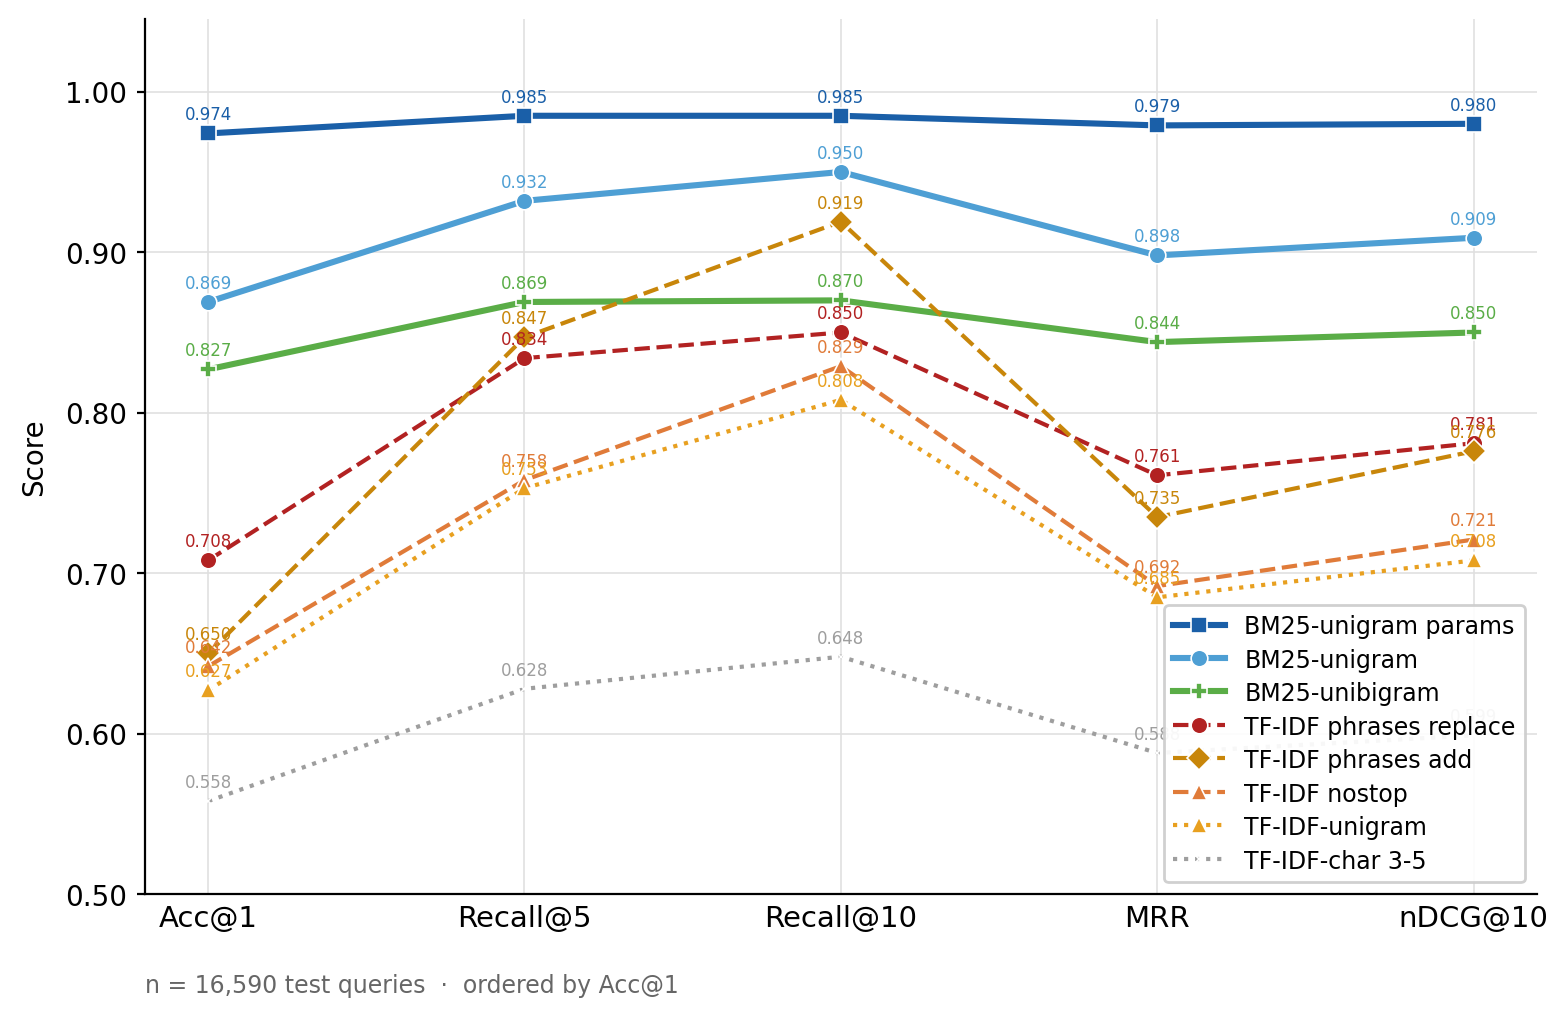
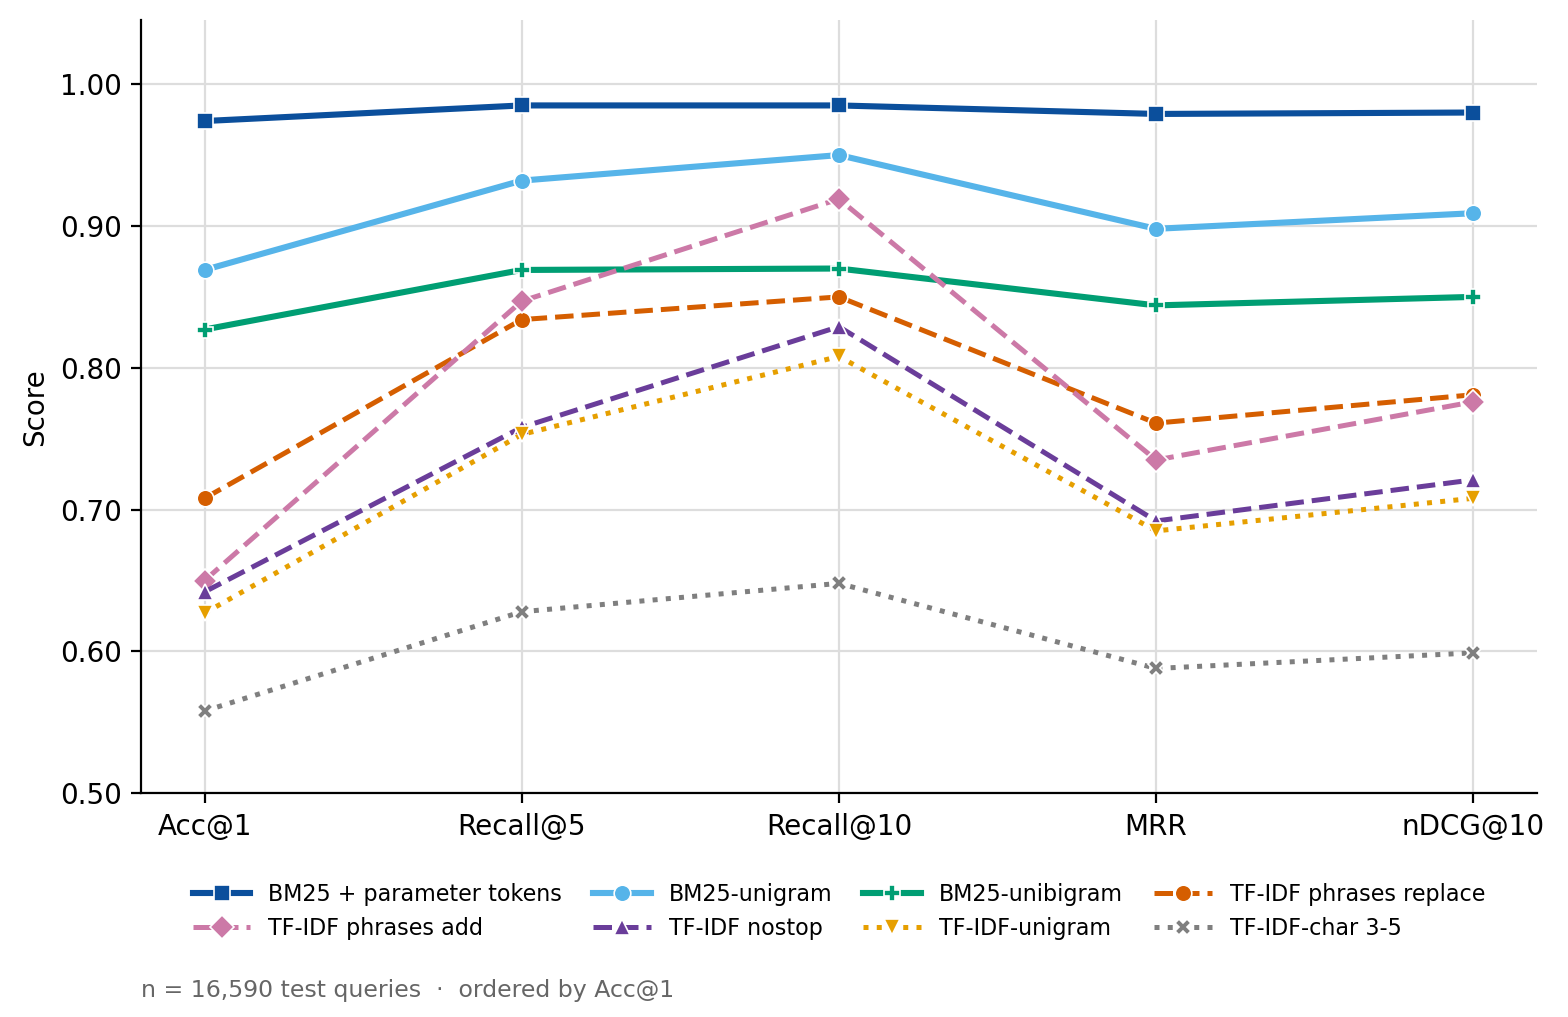
Figures: legends outside data area, readable labels, distinct colours
lexical_performance_parent.png and lexical_performance_item.png came from
Overleaf with no generator in any branch. They are now drawn by the new
scripts/plot_lexical_performance.py from eval/lexical/lb_{parent,item}.tex,
the only surviving source of their data (runs/ is gone, D-019). The values
plotted are the ones the old figures labelled; same series, same order by
Acc@1, same axes and limits, same 1568x1017 px at 200 dpi.

- Legend below the axes, out of the data area, read row by row in Acc@1 order.
- Per-point value labels removed; the values are in the tables.
- Okabe-Ito palette and a distinct marker per series (TF-IDF phrases replace
  and TF-IDF nostop are now vermillion and purple).
- Series renamed "BM25-unigram params" -> "BM25 + parameter tokens".

acc1_by_family.pdf is not touched: scripts/plot_acc1_by_family.py reads
runs/ only and its inputs no longer exist.

Rendered in a throwaway container of the pytorch-notebook image (no
matplotlib on the host), repo mounted read-only.

diff --git a/scripts/plot_lexical_performance.py b/scripts/plot_lexical_performance.py
@@ -1,0 +1,109 @@
+#!/usr/bin/env python3
+"""Dibuja las dos figuras de rendimiento léxico (padre e ítem) desde eval/lexical/.
+
+Las figuras del manuscrito llegaron de Overleaf sin script que las generase. Sus
+datos son los de `eval/lexical/lb_{parent,item}.tex`, los leaderboards que
+escribió `notebooks/eval_all_runs.ipynb`, y como `runs/` ya no existe (D-019) son
+la única fuente que queda. Se dibujan las ocho configuraciones léxicas de la
+tabla, sin la fusión RRF, ordenadas por Acc@1 en cada nivel.
+
+Uso:  python scripts/plot_lexical_performance.py
+"""
+from __future__ import annotations
+
+import argparse
+import re
+from pathlib import Path
+
+import matplotlib
+
+matplotlib.use("Agg")
+import matplotlib.pyplot as plt  # noqa: E402
+import matplotlib.ticker  # noqa: E402
+
+EVAL = Path("eval/lexical")
+FIGURES = Path("paper/figures")
+METRICS = ["Acc@1", "Recall@5", "Recall@10", "MRR", "nDCG@10"]
+
+# Nombre en la leyenda, color, estilo de línea y marcador. Colores de la paleta de
+# Okabe e Ito, que se distinguen también con daltonismo; cada serie lleva además
+# su propio marcador, así que no dependen sólo del color.
+SERIES = {
+    "bm25_unigram_params__k1-0.60__b-0.35": ("BM25 + parameter tokens", "#0b4f9c", "-", "s"),
+    "bm25_unigram__k1-0.80__b-0.35": ("BM25-unigram", "#56b4e9", "-", "o"),
+    "bm25_unibigram__k1-0.80__b-0.35": ("BM25-unibigram", "#009e73", "-", "P"),
+    "tfidf_unigram_phrases_replace": ("TF-IDF phrases replace", "#d55e00", "--", "o"),
+    "tfidf_unigram_phrases_add": ("TF-IDF phrases add", "#cc79a7", "--", "D"),
+    "tfidf_unigram_nostop": ("TF-IDF nostop", "#6a3d9a", "--", "^"),
+    "tfidf_unigram": ("TF-IDF-unigram", "#e69f00", ":", "v"),
+    "tfidf_char_3_5": ("TF-IDF-char 3-5", "#7f7f7f", ":", "X"),
+}
+
+# Los mismos límites del eje Y que las figuras publicadas.
+YLIM = {"item": (0.50, 1.045), "parent": (0.72, 1.045)}
+
+
+def read_leaderboard(path: Path) -> list[tuple[str, dict[str, float]]]:
+    """Filas de un leaderboard de eval_all_runs, en el orden de la tabla."""
+    header, rows = None, []
+    for line in path.read_text(encoding="utf-8").splitlines():
+        if "&" not in line:
+            continue
+        cells = [c.strip() for c in re.sub(r"\\\\\s*$", "", line).split("&")]
+        if cells[0] == "method":
+            header = cells
+            continue
+        rows.append((cells[0], {h: float(v) for h, v in zip(header[1:], cells[1:])}))
+    return rows
+
+
+def plot(level: str, out: Path) -> None:
+    rows = [(run, m) for run, m in read_leaderboard(EVAL / f"lb_{level}.tex") if run in SERIES]
+    rows.sort(key=lambda r: -r[1]["Acc@1"])
+
+    # 1568 x 1017 px a 200 ppp, como las figuras publicadas.
+    fig, ax = plt.subplots(figsize=(7.84, 5.085), dpi=200)
+    x = range(len(METRICS))
+    for run, m in rows:
+        label, color, style, marker = SERIES[run]
+        ax.plot(x, [m[k] for k in METRICS], linestyle=style, marker=marker, color=color,
+                linewidth=2.2 if style == "-" else 1.8, markersize=6,
+                markeredgecolor="white", markeredgewidth=0.6, label=label)
+
+    ax.set_xticks(list(x), METRICS)
+    ax.set_ylim(*YLIM[level])
+    ax.yaxis.set_major_formatter(matplotlib.ticker.FormatStrFormatter("%.2f"))
+    ax.set_ylabel("Score")
+    ax.grid(True, color="#dddddd", linewidth=0.8)
+    ax.set_axisbelow(True)
+    for side in ("top", "right"):
+        ax.spines[side].set_visible(False)
+
+    # Leyenda debajo del eje, fuera del área de datos. matplotlib la rellena por
+    # columnas; se reordena para que se lea por filas en el orden de Acc@1.
+    ncol = 4
+    handles, labels = ax.get_legend_handles_labels()
+    nrow = -(-len(handles) // ncol)
+    order = [r * ncol + c for c in range(ncol) for r in range(nrow) if r * ncol + c < len(handles)]
+    ax.legend([handles[i] for i in order], [labels[i] for i in order],
+              loc="upper center", bbox_to_anchor=(0.5, -0.09), ncol=ncol, frameon=False,
+              fontsize=8, handlelength=2.6, columnspacing=1.4)
+    fig.text(0.09, 0.02, "n = 16,590 test queries  ·  ordered by Acc@1",
+             fontsize=8.5, color="#666666")
+    fig.subplots_adjust(left=0.09, right=0.98, top=0.98, bottom=0.22)
+    fig.savefig(out, dpi=200)
+    plt.close(fig)
+    print(f"-> {out}")
+
+
+def main() -> int:
+    parser = argparse.ArgumentParser(description=__doc__)
+    parser.add_argument("--outdir", type=Path, default=FIGURES)
+    args = parser.parse_args()
+    for level in ("parent", "item"):
+        plot(level, args.outdir / f"lexical_performance_{level}.png")
+    return 0
+
+
+if __name__ == "__main__":
+    raise SystemExit(main())
